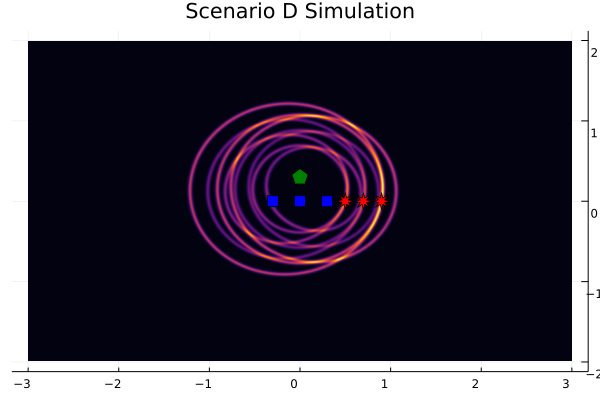
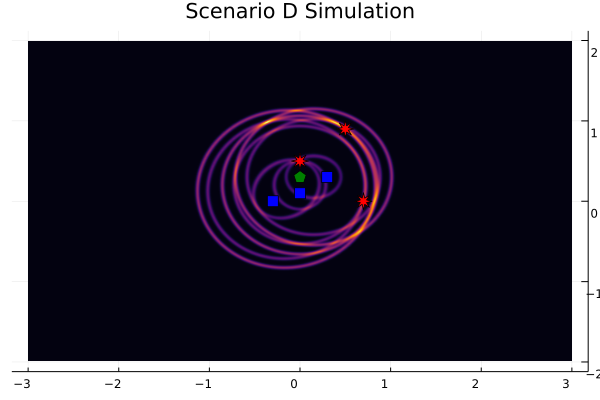
update example D

Changed region(s): [[0.3, 0.24, 0.69, 0.69]]

diff --git a/docs/src/omniDirectionalLTI/omnidirLTIsource.md b/docs/src/omniDirectionalLTI/omnidirLTIsource.md
@@ -252,15 +252,15 @@ using ISA, LTVsystems
 using Plots
 𝐩ₛ =  [0.0, 0.3]
 𝐩ᵣ₁ =  [-0.3, 0.0]
-𝐩ᵣ₂ =  [0.0, 0.0]
-𝐩ᵣ₃ =  [0.3, 0.0]
+𝐩ᵣ₂ =  [0.0, 0.1]
+𝐩ᵣ₃ =  [0.3, 0.3]
 p(t) = δ(t-1.0e-15,1.0e-10)
 q = LTIsourcesO(𝐩ₛ, p)
-α₁ = 0.7; 𝛏₁ = [0.9,0.0]
+α₁ = 0.7; 𝛏₁ = [0.5,0.9]
 R₁ = LTIsourcesO(𝛏₁, t->α₁*q(𝛏₁,t))
-α₂ = 0.5; 𝛏₂ = [0.5,0.0]
+α₂ = 0.5; 𝛏₂ = [0.7,0.0]
 R₂ = LTIsourcesO(𝛏₂, t->α₂*q(𝛏₂,t))
-α₃ = 0.4; 𝛏₃ = [0.7,0.0]
+α₃ = 0.4; 𝛏₃ = [0.0,0.5]
 R₃ = LTIsourcesO(𝛏₃, t->α₃*q(𝛏₃,t))
 z₁ = LTIreceiversO([R₁,R₂,R₃],𝐩ᵣ₁)
 z₂ = LTIreceiversO([R₁,R₂,R₃],𝐩ᵣ₂)
@@ -288,15 +288,15 @@ using ISA, LTVsystems
 using Plots
 𝐩ₛ =  [0.0, 0.3]
 𝐩ᵣ₁ =  [-0.3, 0.0]
-𝐩ᵣ₂ =  [0.0, 0.0]
-𝐩ᵣ₃ =  [0.3, 0.0]
+𝐩ᵣ₂ =  [0.0, 0.1]
+𝐩ᵣ₃ =  [0.3, 0.3]
 p(t) = δ(t-1.0e-15,1.0e-10)
 q = LTIsourcesO(𝐩ₛ, p)
-α₁ = 0.7; 𝛏₁ = [0.9,0.0]
+α₁ = 0.7; 𝛏₁ = [0.5,0.9]
 R₁ = LTIsourcesO(𝛏₁, t->α₁*q(𝛏₁,t))
-α₂ = 0.5; 𝛏₂ = [0.5,0.0]
+α₂ = 0.5; 𝛏₂ = [0.7,0.0]
 R₂ = LTIsourcesO(𝛏₂, t->α₂*q(𝛏₂,t))
-α₃ = 0.4; 𝛏₃ = [0.7,0.0]
+α₃ = 0.4; 𝛏₃ = [0.0,0.5]
 R₃ = LTIsourcesO(𝛏₃, t->α₃*q(𝛏₃,t))
 z₁ = LTIreceiversO([R₁,R₂,R₃],𝐩ᵣ₁)
 z₂ = LTIreceiversO([R₁,R₂,R₃],𝐩ᵣ₂)
@@ -316,7 +316,7 @@ xyGrid = [[x, y] for x in x_range, y in y_range]
 val = [f(𝐮) for 𝐮 ∈ xyGrid]
 p2 = plot(x_range,y_range,transpose(val),st=:surface,camera=(0,90),
          legend=false,zticks=false,title="Scenario D Simulation")
-scatter!(p2,[𝐩ₛ[1]], [𝐩ₛ[2]],markersize = 8.5,color = :green,
+scatter!(p2,[𝐩ₛ[1]], [𝐩ₛ[2]],markersize = 6.5,color = :green,
         marker=:pentagon, label='s')
 scatter!(p2,[𝐩ᵣ₁[1]], [𝐩ᵣ₁[2]],markersize = 5.5,color = :blue,
         marker=:square, label='r')
